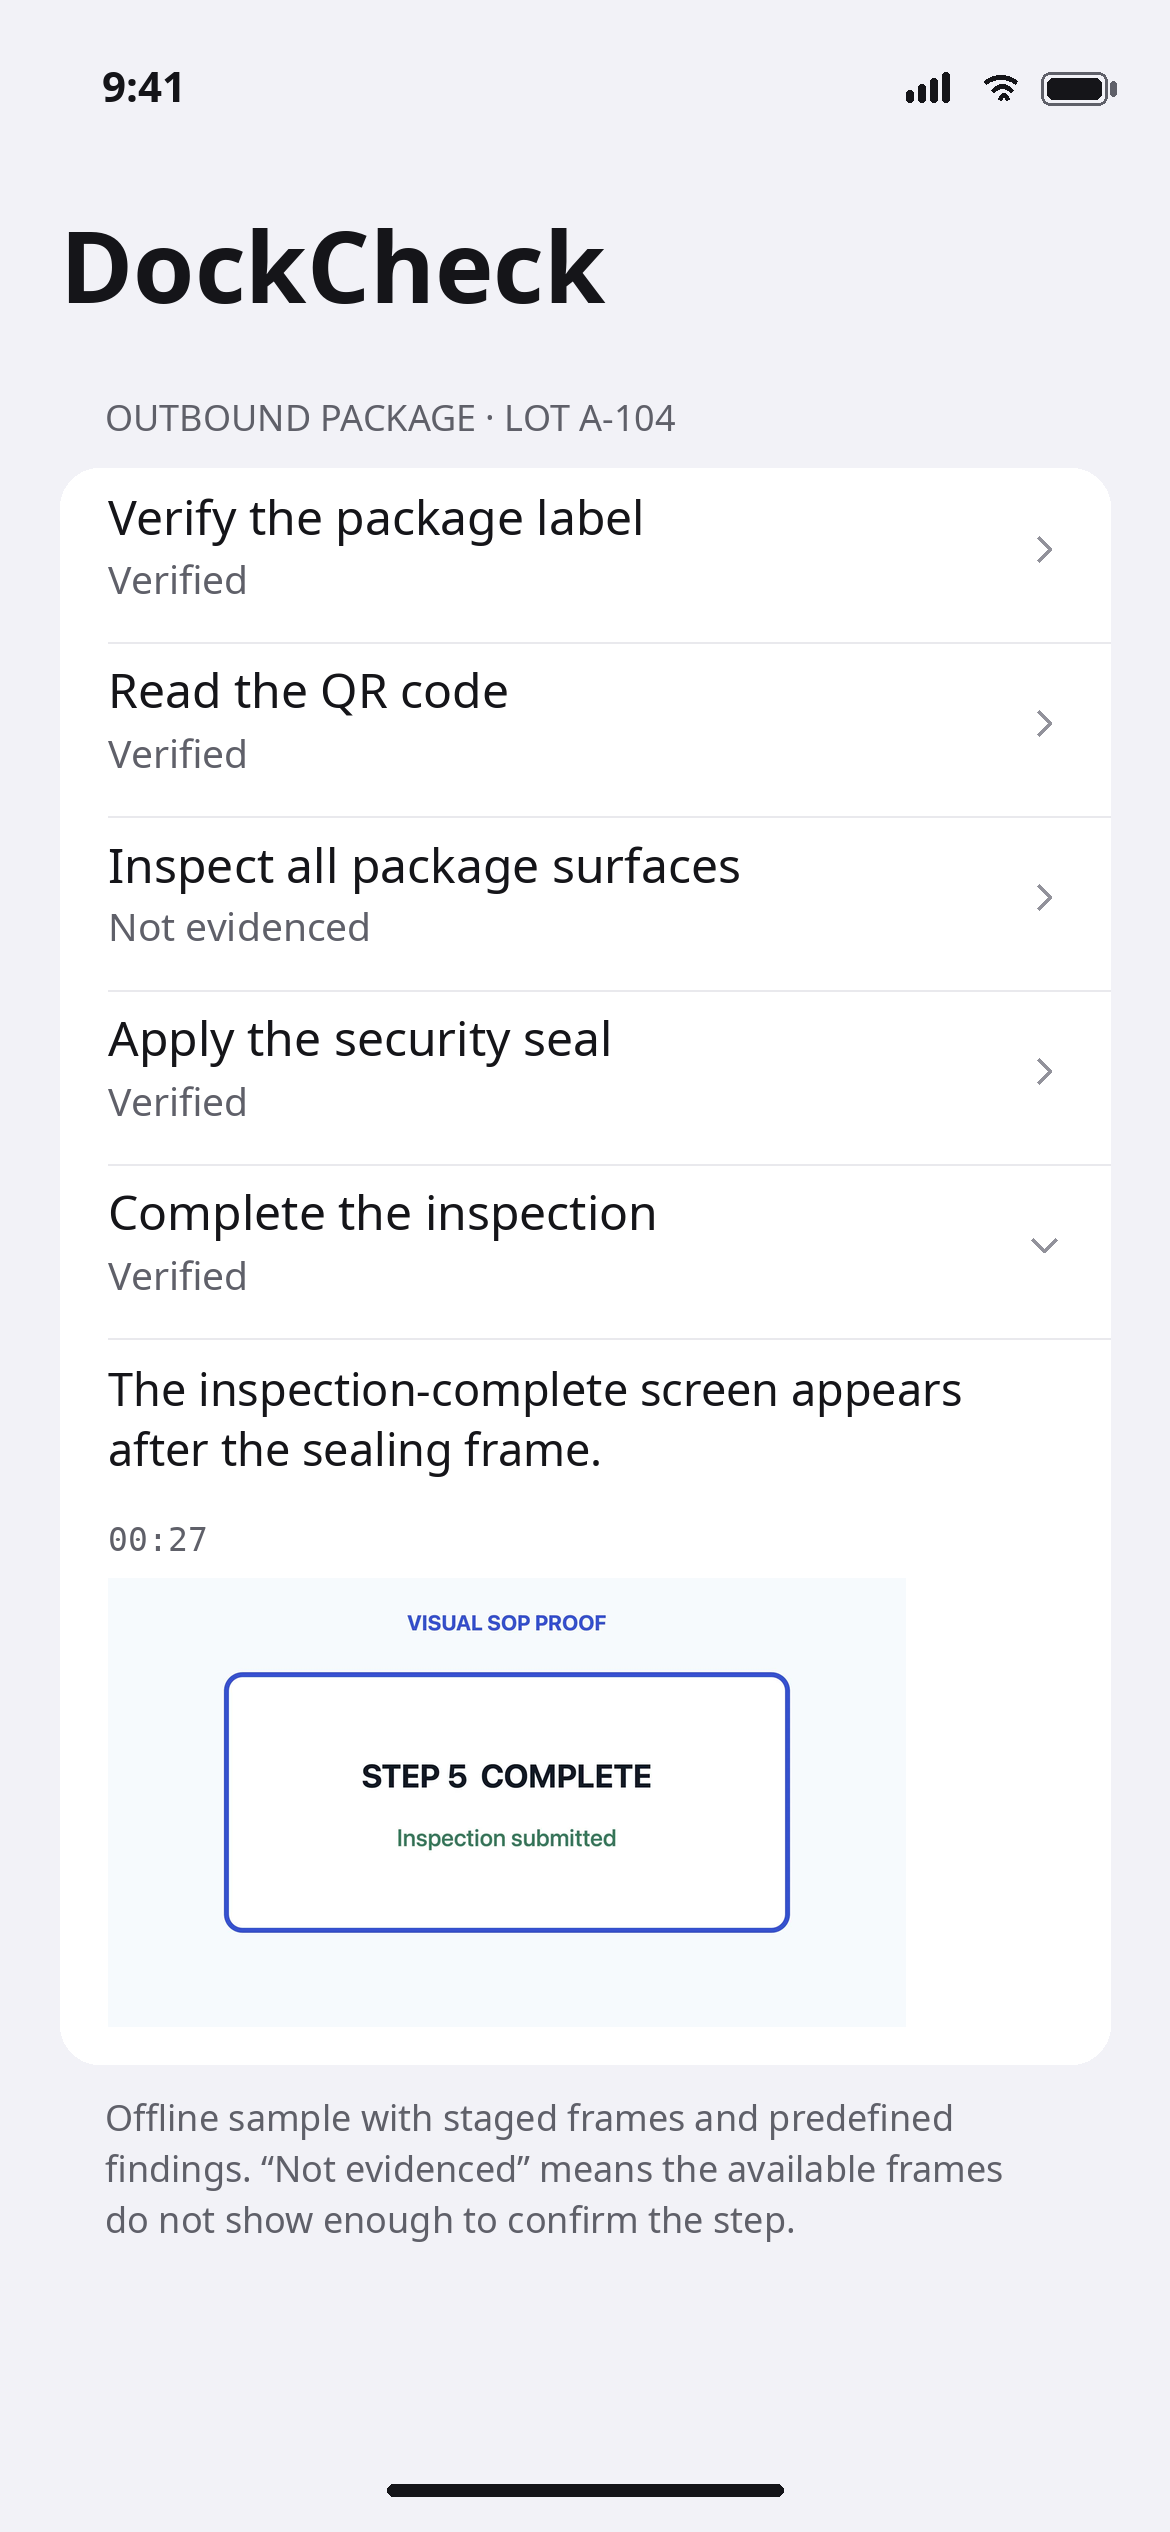
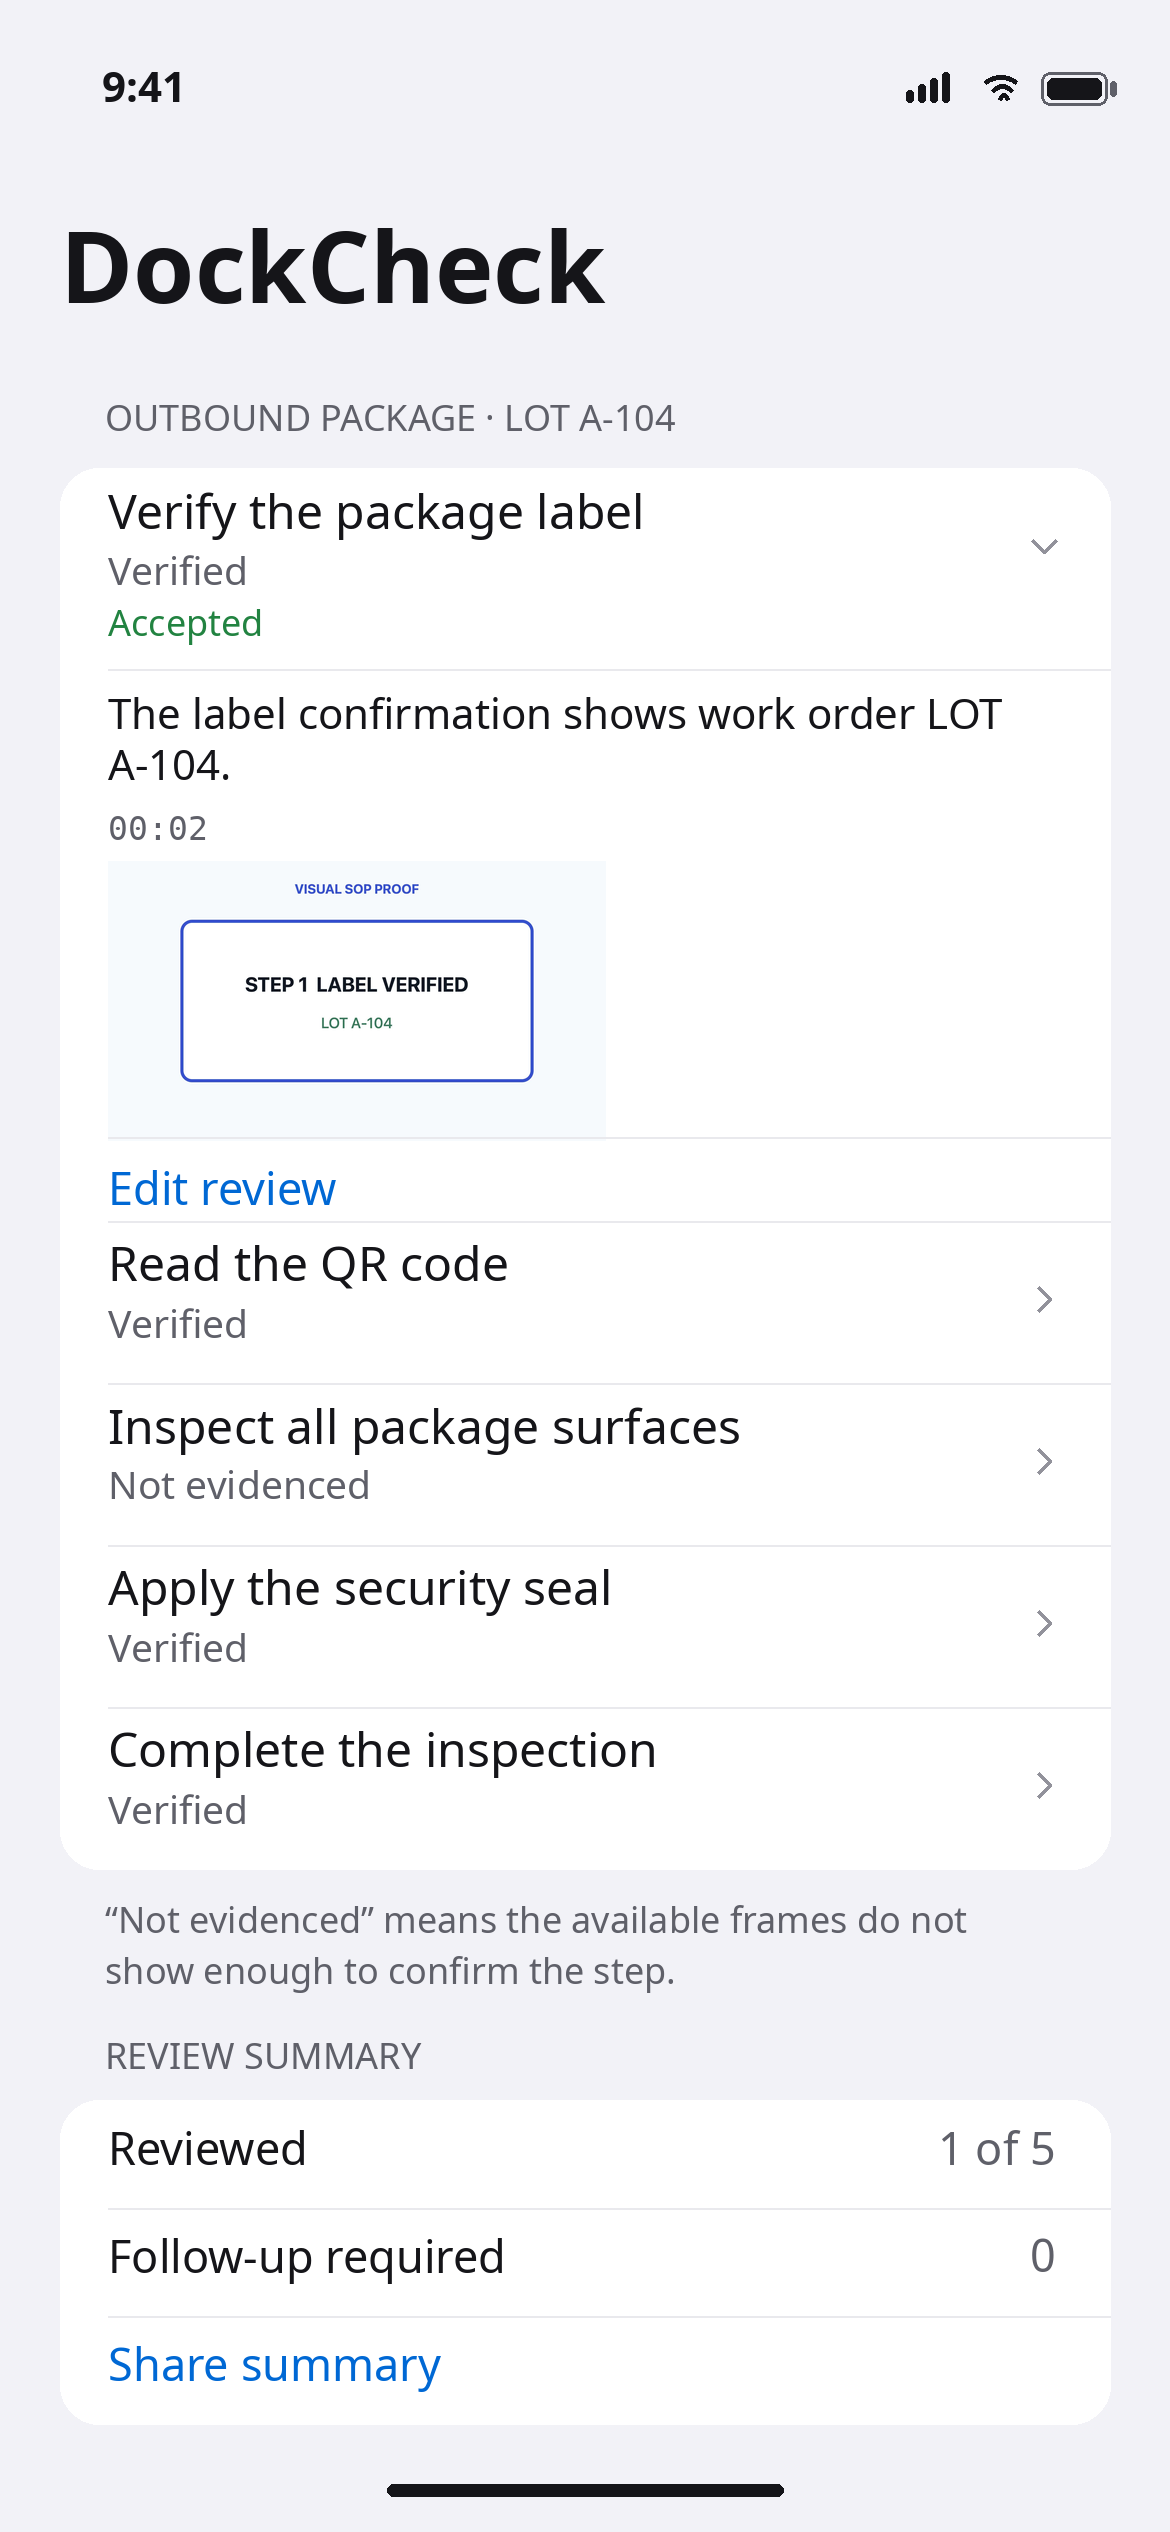
Add inspection decisions, notes, and handoff summary

diff --git a/DockCheck/DockCheckApp.swift b/DockCheck/DockCheckApp.swift
@@ -5,85 +5,145 @@ import UIKit
 struct DockCheckApp: App {
     var body: some Scene {
         WindowGroup {
-            NavigationStack {
-                List {
-                    Section {
-                        ForEach(InspectionCheck.sample) { check in
-                            DisclosureGroup {
-                                Text(check.observation)
-                                    .padding(.vertical, 4)
+            InspectionView()
+        }
+    }
+}
 
-                                ForEach(check.frames) { frame in
-                                    VStack(alignment: .leading, spacing: 6) {
-                                        Text(frame.timestamp)
-                                            .font(.caption.monospacedDigit())
-                                            .foregroundStyle(.secondary)
-                                        if let image = UIImage(named: frame.name + ".jpg") {
-                                            Image(uiImage: image)
-                                                .resizable()
-                                                .scaledToFit()
-                                                .accessibilityLabel(Text("Inspection frame at \(frame.timestamp)"))
-                                        }
-                                    }
-                                    .padding(.vertical, 4)
-                                }
-                            } label: {
-                                VStack(alignment: .leading, spacing: 4) {
-                                    Text(check.title)
-                                    Text(check.status.rawValue)
-                                        .font(.subheadline)
+private struct InspectionView: View {
+    @AppStorage("inspection-reviews-lot-a-104") private var reviewData = Data()
+    @State private var selectedCheck: InspectionCheck?
+
+    private let lot = "A-104"
+    private let checks = InspectionCheck.sample
+
+    private var reviews: [Int: InspectionReview] {
+        (try? JSONDecoder().decode([Int: InspectionReview].self, from: reviewData)) ?? [:]
+    }
+
+    var body: some View {
+        let currentReviews = reviews
+        let report = InspectionReport(lot: lot, checks: checks, reviews: currentReviews)
+
+        NavigationStack {
+            List {
+                Section {
+                    ForEach(checks) { check in
+                        let review = currentReviews[check.id] ?? InspectionReview()
+                        DisclosureGroup {
+                            Text(check.observation)
+                                .padding(.vertical, 4)
+
+                            ForEach(check.frames) { frame in
+                                VStack(alignment: .leading, spacing: 6) {
+                                    Text(frame.timestamp)
+                                        .font(.caption.monospacedDigit())
                                         .foregroundStyle(.secondary)
+                                    if let image = UIImage(named: frame.name + ".jpg") {
+                                        Image(uiImage: image)
+                                            .resizable()
+                                            .scaledToFit()
+                                            .accessibilityLabel(Text("Inspection frame at \(frame.timestamp)"))
+                                    }
                                 }
                                 .padding(.vertical, 4)
                             }
+
+                            if !review.trimmedNote.isEmpty {
+                                Text(review.trimmedNote)
+                            }
+
+                            Button {
+                                selectedCheck = check
+                            } label: {
+                                Label("Edit review", systemImage: "square.and.pencil")
+                            }
+                        } label: {
+                            VStack(alignment: .leading, spacing: 4) {
+                                Text(check.title)
+                                Text(check.status.rawValue)
+                                    .font(.subheadline)
+                                    .foregroundStyle(.secondary)
+                                if review.decision != .pending {
+                                    Text(review.decision.rawValue)
+                                        .font(.caption)
+                                        .foregroundStyle(review.decision == .followUp ? Color.orange : Color.green)
+                                }
+                            }
+                            .padding(.vertical, 4)
                         }
-                    } header: {
-                        Text("Outbound package · Lot A-104")
-                    } footer: {
-                        Text("Offline sample with staged frames and predefined findings. “Not evidenced” means the available frames do not show enough to confirm the step.")
+                    }
+                } header: {
+                    Text("Outbound package · Lot \(lot)")
+                } footer: {
+                    Text("“Not evidenced” means the available frames do not show enough to confirm the step.")
+                }
+
+                Section("Review summary") {
+                    LabeledContent("Reviewed", value: "\(report.reviewedCount) of \(checks.count)")
+                    LabeledContent("Follow-up required", value: "\(report.followUpCount)")
+                    ShareLink(item: report.text, subject: Text("DockCheck inspection · Lot \(lot)")) {
+                        Label("Share summary", systemImage: "square.and.arrow.up")
                     }
                 }
-                .navigationTitle("DockCheck")
+            }
+            .navigationTitle("DockCheck")
+            .sheet(item: $selectedCheck) { check in
+                ReviewEditor(check: check, review: currentReviews[check.id] ?? InspectionReview()) { review in
+                    var updated = reviews
+                    updated[check.id] = review
+                    if let encoded = try? JSONEncoder().encode(updated) {
+                        reviewData = encoded
+                    }
+                    selectedCheck = nil
+                }
             }
         }
     }
 }
 
-private struct InspectionCheck: Identifiable {
-    enum Status: String {
-        case verified = "Verified"
-        case notEvidenced = "Not evidenced"
+private struct ReviewEditor: View {
+    @Environment(\.dismiss) private var dismiss
+    @State private var draft: InspectionReview
+
+    let check: InspectionCheck
+    let onSave: (InspectionReview) -> Void
+
+    init(check: InspectionCheck, review: InspectionReview, onSave: @escaping (InspectionReview) -> Void) {
+        self.check = check
+        self.onSave = onSave
+        _draft = State(initialValue: review)
     }
 
-    struct Frame: Identifiable {
-        let name: String
-        let timestamp: String
+    var body: some View {
+        NavigationStack {
+            Form {
+                Section {
+                    LabeledContent("Frame evidence", value: check.status.rawValue)
+                    Picker("Review decision", selection: $draft.decision) {
+                        ForEach(InspectionReview.Decision.allCases) { decision in
+                            Text(decision.rawValue).tag(decision)
+                        }
+                    }
+                } header: {
+                    Text(check.title)
+                }
 
-        var id: String { name }
+                Section("Notes") {
+                    TextField("Add a note", text: $draft.note, axis: .vertical)
+                        .lineLimit(2...6)
+                }
+            }
+            .navigationTitle("Edit review")
+            .navigationBarTitleDisplayMode(.inline)
+            .toolbar {
+                ToolbarItem(placement: .cancellationAction) {
+                    Button("Cancel") { dismiss() }
+                }
+                ToolbarItem(placement: .confirmationAction) {
+                    Button("Save") { onSave(draft) }
+                }
+            }
+        }
     }
-
-    let id: Int
-    let title: String
-    let status: Status
-    let observation: String
-    let frames: [Frame]
-
-    static let sample: [Self] = [
-        .init(id: 1, title: "Verify the package label", status: .verified,
-              observation: "The label confirmation shows work order LOT A-104.",
-              frames: [.init(name: "frame_000", timestamp: "00:02")]),
-        .init(id: 2, title: "Read the QR code", status: .verified,
-              observation: "The scan confirmation shows package ID PKG-4821.",
-              frames: [.init(name: "frame_001", timestamp: "00:07")]),
-        .init(id: 3, title: "Inspect all package surfaces", status: .notEvidenced,
-              observation: "The frames show the top of the package. Review footage of all four sides before marking this check verified.",
-              frames: [.init(name: "frame_002", timestamp: "00:12"),
-                       .init(name: "frame_003", timestamp: "00:17")]),
-        .init(id: 4, title: "Apply the security seal", status: .verified,
-              observation: "A blue security seal is visible across the center seam.",
-              frames: [.init(name: "frame_004", timestamp: "00:22")]),
-        .init(id: 5, title: "Complete the inspection", status: .verified,
-              observation: "The inspection-complete screen appears after the sealing frame.",
-              frames: [.init(name: "frame_005", timestamp: "00:27")])
-    ]
 }

diff --git a/DockCheck/Inspection.swift b/DockCheck/Inspection.swift
@@ -1,0 +1,94 @@
+import Foundation
+
+struct InspectionCheck: Identifiable {
+    enum Status: String {
+        case verified = "Verified"
+        case notEvidenced = "Not evidenced"
+    }
+
+    struct Frame: Identifiable {
+        let name: String
+        let timestamp: String
+
+        var id: String { name }
+    }
+
+    let id: Int
+    let title: String
+    let status: Status
+    let observation: String
+    let frames: [Frame]
+
+    static let sample: [Self] = [
+        .init(id: 1, title: "Verify the package label", status: .verified,
+              observation: "The label confirmation shows work order LOT A-104.",
+              frames: [.init(name: "frame_000", timestamp: "00:02")]),
+        .init(id: 2, title: "Read the QR code", status: .verified,
+              observation: "The scan confirmation shows package ID PKG-4821.",
+              frames: [.init(name: "frame_001", timestamp: "00:07")]),
+        .init(id: 3, title: "Inspect all package surfaces", status: .notEvidenced,
+              observation: "The frames show the top of the package. Review footage of all four sides before marking this check verified.",
+              frames: [.init(name: "frame_002", timestamp: "00:12"),
+                       .init(name: "frame_003", timestamp: "00:17")]),
+        .init(id: 4, title: "Apply the security seal", status: .verified,
+              observation: "A blue security seal is visible across the center seam.",
+              frames: [.init(name: "frame_004", timestamp: "00:22")]),
+        .init(id: 5, title: "Complete the inspection", status: .verified,
+              observation: "The inspection-complete screen appears after the sealing frame.",
+              frames: [.init(name: "frame_005", timestamp: "00:27")])
+    ]
+}
+
+struct InspectionReview: Codable {
+    enum Decision: String, CaseIterable, Codable, Identifiable {
+        case pending = "Pending"
+        case accepted = "Accepted"
+        case followUp = "Follow-up required"
+
+        var id: Self { self }
+    }
+
+    var decision: Decision = .pending
+    var note = ""
+
+    var trimmedNote: String { note.trimmingCharacters(in: .whitespacesAndNewlines) }
+}
+
+struct InspectionReport {
+    let lot: String
+    let checks: [InspectionCheck]
+    let reviews: [Int: InspectionReview]
+
+    var reviewedCount: Int {
+        checks.filter { decision(for: $0) != .pending }.count
+    }
+
+    var followUpCount: Int {
+        checks.filter { decision(for: $0) == .followUp }.count
+    }
+
+    var text: String {
+        let sections = checks.map { check in
+            let review = reviews[check.id] ?? InspectionReview()
+            let timestamps = check.frames.map(\.timestamp).joined(separator: ", ")
+            var lines = [
+                check.title,
+                "Evidence: \(check.status.rawValue) (\(timestamps))",
+                check.observation,
+                "Review decision: \(review.decision.rawValue)",
+            ]
+            if !review.trimmedNote.isEmpty {
+                lines.append("Note: \(review.trimmedNote)")
+            }
+            return lines.joined(separator: "\n")
+        }
+        return ([
+            "DockCheck — Outbound package · Lot \(lot)",
+            "\(reviewedCount) of \(checks.count) reviewed · \(followUpCount) require follow-up",
+        ] + sections).joined(separator: "\n\n")
+    }
+
+    private func decision(for check: InspectionCheck) -> InspectionReview.Decision {
+        reviews[check.id]?.decision ?? .pending
+    }
+}

diff --git a/README.md b/README.md
@@ -1,16 +1,20 @@
 # DockCheck
 
-DockCheck is a SwiftUI app for reviewing outbound package inspections. Open any checklist item to see the inspection result and the timestamped images associated with it.
+DockCheck is a SwiftUI app for reviewing outbound package inspections. Open a checklist item to inspect timestamped frames, record a decision, and add notes before handing the inspection off to the next shift.
 
 <p align="center">
-  <img src="docs/dockcheck-preview.png" alt="DockCheck checklist for lot A-104 with the completion step expanded and an inspection frame at 00:27" width="340">
+  <img src="docs/dockcheck-preview.png" alt="DockCheck checklist for lot A-104 with the package label step expanded and the review controls visible" width="340">
 </p>
 
-*Screen preview rendered from the app’s layout and bundled inspection data.*
+*Screen preview based on the app layout and bundled inspection for lot A-104.*
 
-The sample covers label verification, QR scanning, damage inspection, security sealing, and completion. The damage check is marked **Not evidenced** because the available frames show the top of the package and leave its sides out of view.
+## Review an inspection
 
-DockCheck works offline and includes a sample inspection with staged images and predefined findings. No account, server, or API key is required.
+- Check the supporting frames for the package label, QR scan, surface inspection, security seal, and completion.
+- Use **Edit review** to mark a step **Accepted** or **Follow-up required** and record any observations. Decisions and notes are saved on the device.
+- Use **Review summary** to track progress and share a text handoff with the decisions, notes, and frame timestamps.
+
+In the included inspection, the surface check is marked **Not evidenced** because the available frames show only the top of the package. A reviewer can flag it for follow-up and specify which views to request.
 
 ## Run locally
 
